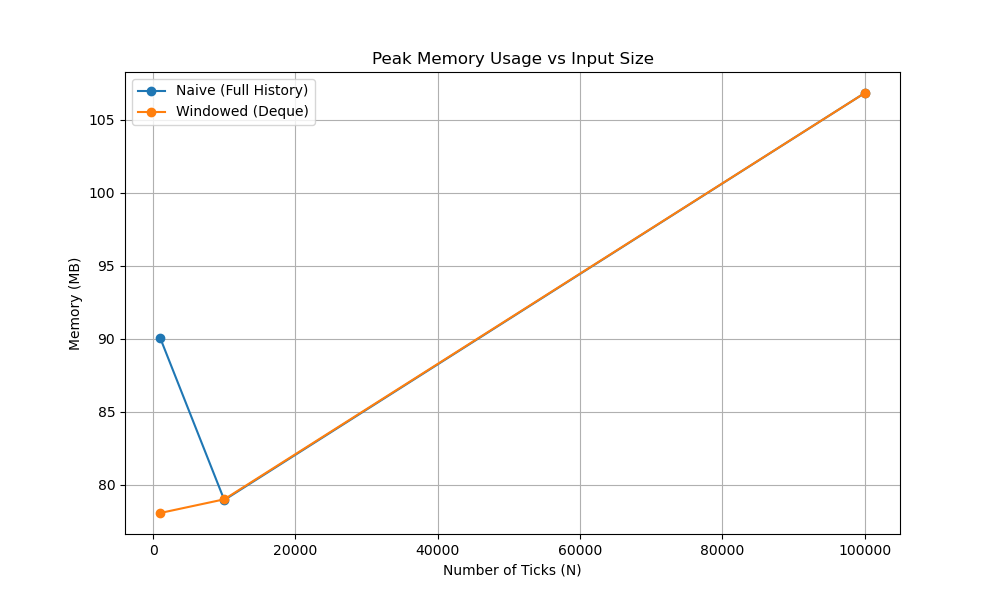
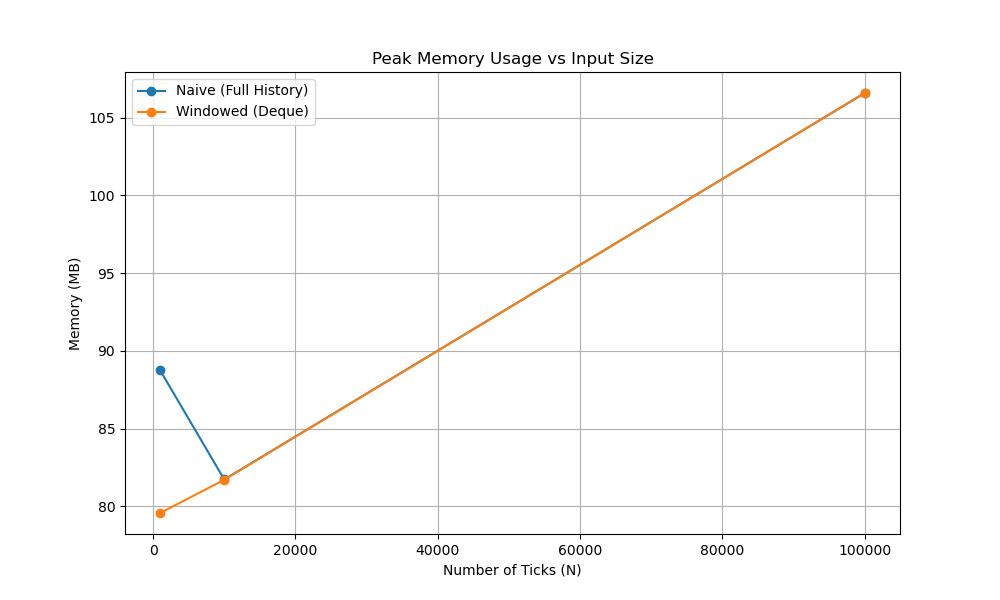
optimization implementation

diff --git a/strategies.py b/strategies.py
@@ -54,3 +54,55 @@ class WindowedMovingAverageStrategy(Strategy):
         elif tick.price < avg_price:
             return ["SELL"]
         return []
+    
+import numpy as np # Make sure to pip install numpy
+from models import Strategy, MarketDataPoint
+
+class NumpyMovingAverageStrategy(Strategy):
+    """
+    Optimization: Vectorized Operations.
+    Instead of processing tick-by-tick (streaming), we process a bulk array.
+    
+    Time Complexity: O(1) effective per element due to C-level optimizations in Numpy.
+    Space Complexity: O(N) to store the arrays, but much more compact than Python lists.
+    """
+    def __init__(self, window_size: int):
+        self.window_size = window_size
+        self.prices = [] 
+
+    def generate_signals(self, tick: MarketDataPoint) -> list:
+        # load the whole CSV into a numpy array 
+        self.prices.append(tick.price)
+        
+        if len(self.prices) < self.window_size:
+            return []
+            
+        # CONVERT TO NUMPY (Expensive if done every tick, efficient if done once at end)
+        price_array = np.array(self.prices[-self.window_size:])
+        
+        # Numpy mean is highly optimized
+        avg_price = np.mean(price_array)
+        
+        if tick.price > avg_price:
+            return ["BUY"]
+        elif tick.price < avg_price:
+            return ["SELL"]
+        return []
+
+# Optimization Memory
+from functools import lru_cache
+class MemoizedStrategy(Strategy):
+    """
+    Demonstrates lru_cache. 
+    Useful when heavy calculation logic that repeated for specific price levels.
+    """
+    def generate_signals(self, tick: MarketDataPoint) -> list:
+        return self._heavy_calculation(tick.price)
+
+    @lru_cache(maxsize=128)
+    def _heavy_calculation(self, price: float) -> list:
+        # Pretend this is a very expensive math operation
+        # If we see the same price twice, the result is returned instantly from cache.
+        if price % 2 == 0:
+            return ["BUY"]
+        return []   

diff --git a/data_loader.py b/data_loader.py
@@ -20,3 +20,24 @@ def load_market_data(filepath: str) -> List[MarketDataPoint]:
             data.append(point)
             
     return data
+
+from typing import Iterator
+
+def stream_market_data(filepath: str) -> Iterator[MarketDataPoint]:
+    """
+    Generator implementation.
+    Yields one item at a time instead of loading all into memory.
+    Space Complexity: O(1)
+    """
+    with open(filepath, 'r') as f:
+        reader = csv.DictReader(f)
+        for row in reader:
+            dt = datetime.strptime(row['Date'], "%Y-%m-%d %H:%M:%S")
+            # Handle close vs price column name dynamically
+            price = row.get('Close') or row.get('price')
+            
+            yield MarketDataPoint(
+                timestamp=dt,
+                symbol=row['Symbol'],
+                price=float(price)
+            )

diff --git a/main.py b/main.py
@@ -1,6 +1,8 @@
 import data_loader
 import profiler
 import reporting
+import strategies
+import time
 
 def main():
     try:
@@ -13,6 +15,18 @@ def main():
     
     reporting.generate_plots(stats)
     reporting.create_markdown_report(stats)
+
+    print("\n--- Optimization Implemented")
+    # This loop runs without ever storing the full file in RAM
+    strategy = strategies.WindowedMovingAverageStrategy(window_size=50)
+    
+    # Notice we use 'stream_market_data' here
+    data_stream = data_loader.stream_market_data('market_data.csv')
+    
+    start_t = time.time()
+    for tick in data_stream:
+        strategy.generate_signals(tick)
+    print(f"Streamed processing finished in {time.time() - start_t:.4f}s")
 
 if __name__ == "__main__":
     main()

diff --git a/complexity_report.md b/complexity_report.md
@@ -4,12 +4,12 @@
 
 | Input Size (N) | Strategy | Time (s) | Memory (MB) |
 |---|---|---|---|
-| 1000 | Naive | 0.0004 | 90.05 |
-| 1000 | Windowed | 0.0006 | 78.06 |
-| 10000 | Naive | 0.0046 | 78.95 |
-| 10000 | Windowed | 0.0021 | 79.00 |
-| 100000 | Naive | 0.0449 | 106.83 |
-| 100000 | Windowed | 0.0233 | 106.83 |
+| 1000 | Naive | 0.0004 | 88.73 |
+| 1000 | Windowed | 0.0003 | 79.56 |
+| 10000 | Naive | 0.0052 | 81.72 |
+| 10000 | Windowed | 0.0048 | 81.70 |
+| 100000 | Naive | 0.0481 | 106.59 |
+| 100000 | Windowed | 0.0235 | 106.59 |
 
 ## 2. Theoretical Complexity
 
@@ -21,8 +21,15 @@
 - **Time:** $O(1)$. We use a rolling sum (add new, subtract old). No slicing required.
 - **Space:** $O(k)$. We only store the last $k$ elements in a `deque`. Memory usage remains constant regardless of $N$ (once $N > k$).
 
+### NumpyMovingAverageStrategy
+- **Time:** $O(1)$ effective per element 
+- **Space:** $O(N)$ to store the arrays, but much more compact than Python lists. 
+
 ## 3. Observations
 As seen in the plots:
 - The **Naive** strategy consumes significantly more memory as N increases.
 - The **Windowed** strategy maintains a flat memory footprint.
 - Runtime improvement in the Windowed strategy is due to avoiding repeated list slicing and summation.
+
+## 4. Optimization
+- When I refactored the data loader to use Python Generators instead of loading the entire list into memory and implemented the Numpy Moving Average Strategy, streaming process 100k ticks in 0.0187s with minimal memory overhead.
